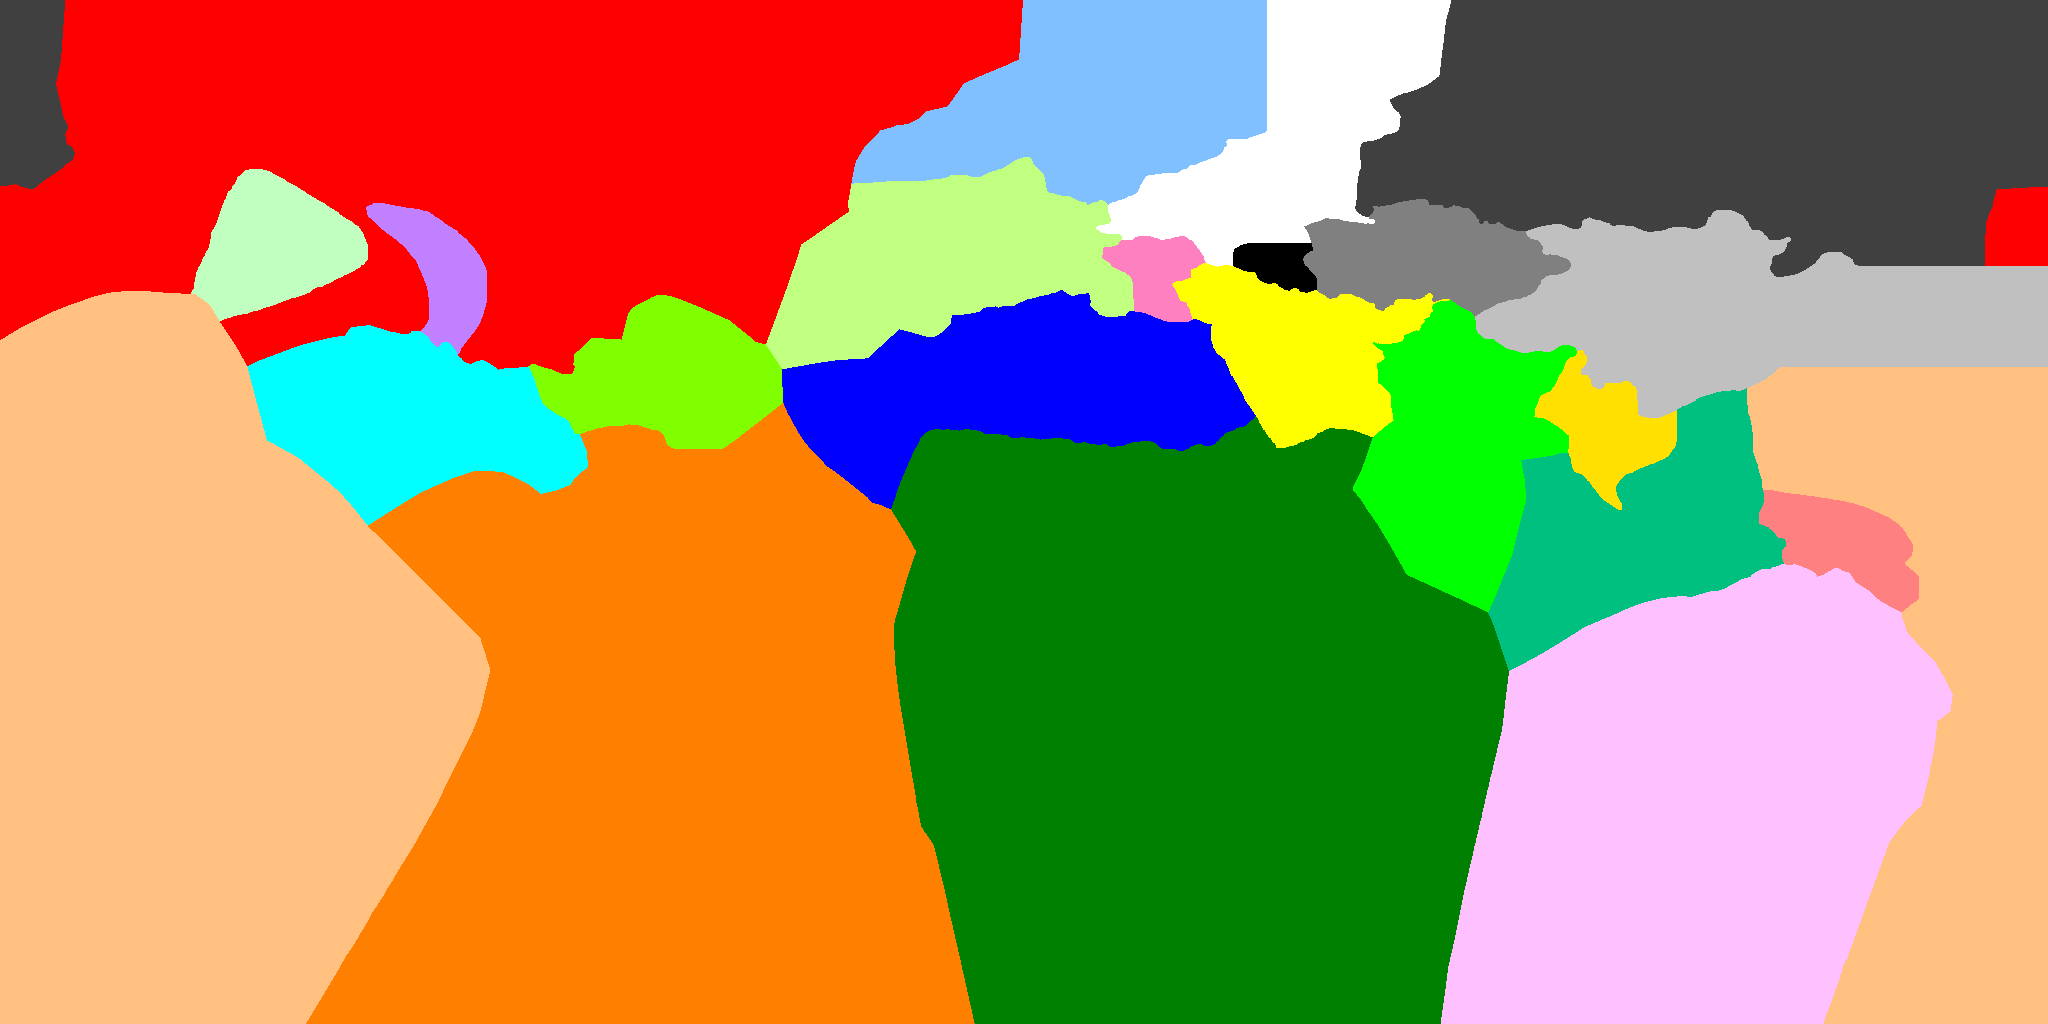
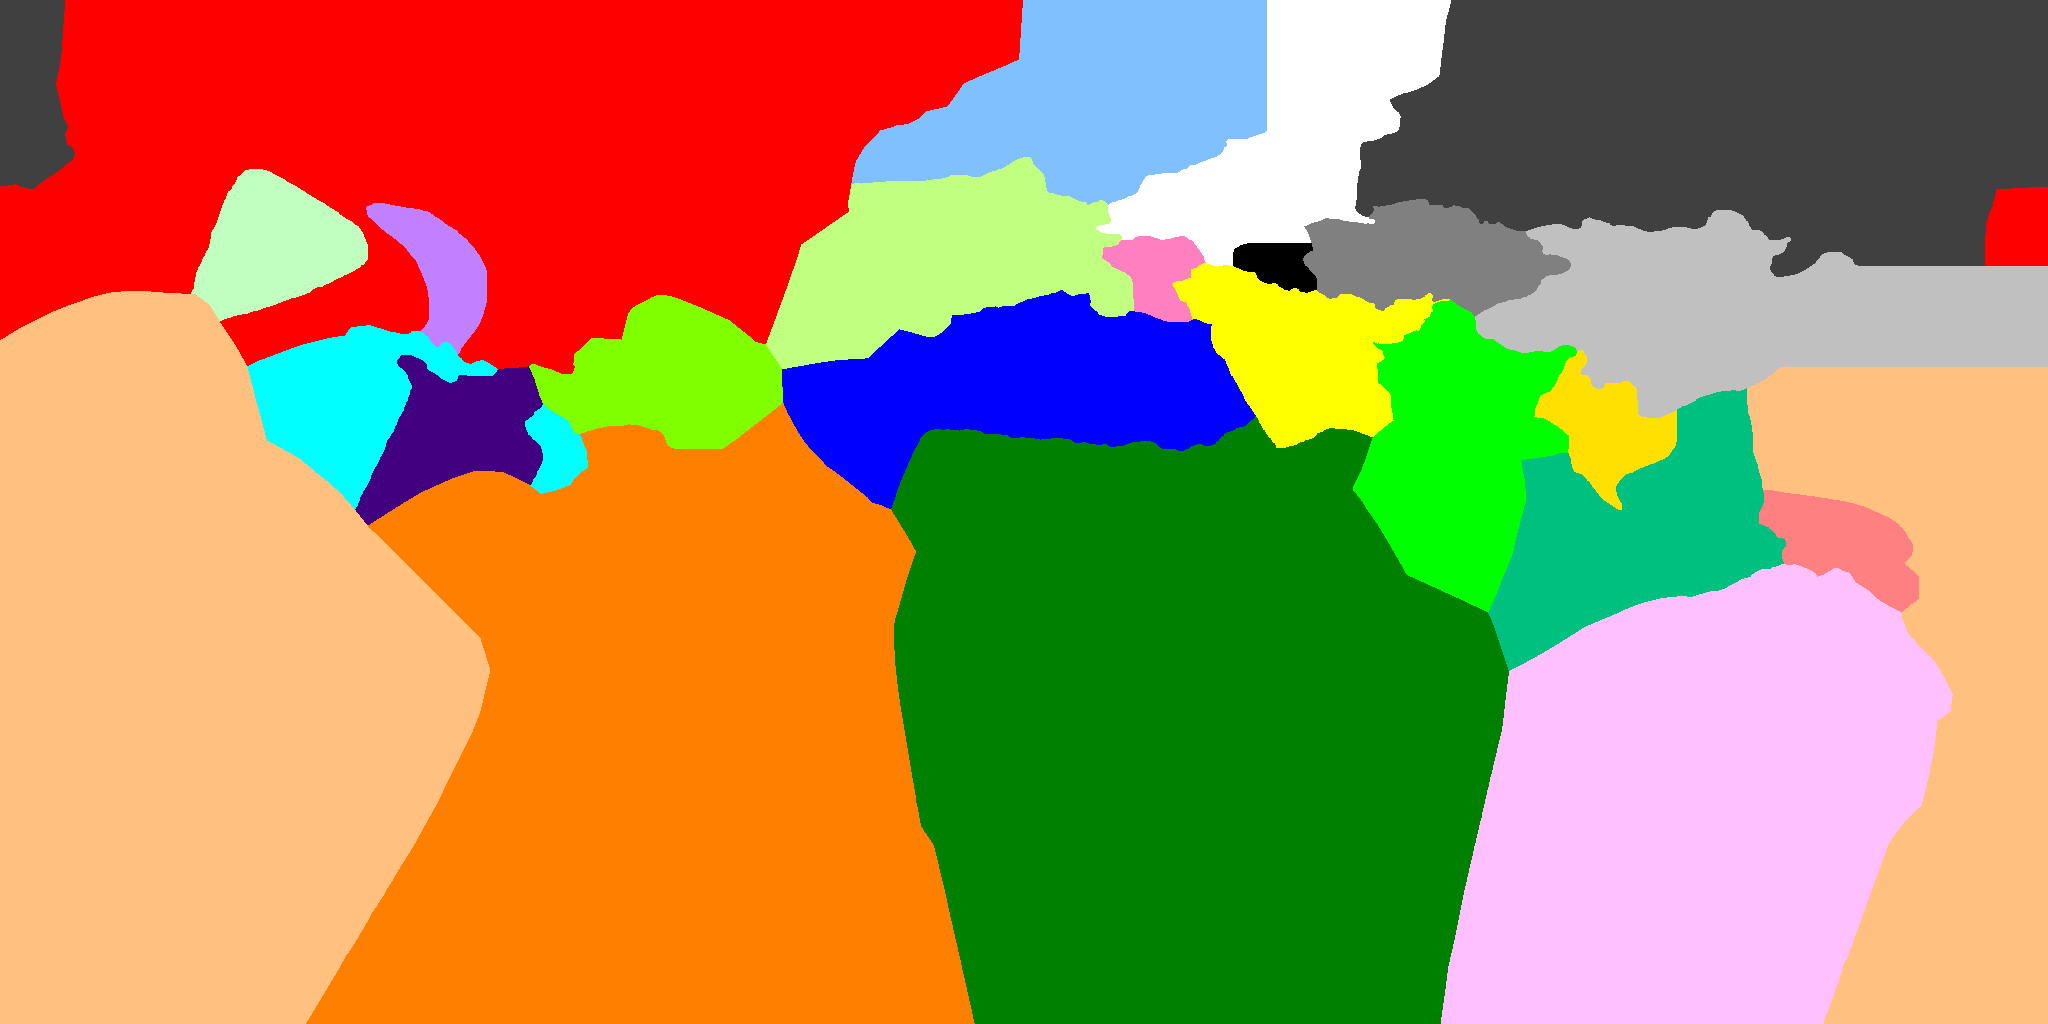
added mesoamerica

Changed region(s): [[0.1562, 0.3438, 0.2812, 0.5312]]

diff --git a/Geo.cs b/Geo.cs
@@ -19,13 +19,14 @@ namespace WalsParser {
 		INDONESIA = 0xFF00C080,
 		AMERICA_NORTH_NORTH = 0xFFFF0000,
 		PLAINS = 0xFFC080FF,
-		AMERICA_CENTRAL = 0xFF00FFFF,
+		AMERICA_CENTRAL_PERIPHERAL = 0xFF00FFFF,
 		AMERICA_SOUTH = 0xFFFF8000,
 		CASCADIA = 0xFFC0FFC0,
 		CARRIBEAN = 0xFF80FF00,
 		OCEANIA = 0xFFFFC080,
 		NEW_GUINEA = 0xFFFF8080,
 		AUSTRALIA = 0xFFFFC0FF,
+		MESOAMERICA = 0xFF400080,
 	}
 	class Region {
 		public static readonly List<Region> regions = new();
@@ -46,8 +47,11 @@ namespace WalsParser {
 			Province.AFRICA_NORTH, Province.AFRICA_SUBSAHARAN
 		});
 		static readonly Region AMERICA_NORTH = new("AMERICA_NORTH", new Province[]{
-			Province.AMERICA_NORTH_NORTH, Province.CASCADIA, Province.CARRIBEAN, Province.AMERICA_CENTRAL,
-			Province.PLAINS
+			Province.AMERICA_NORTH_NORTH, Province.CASCADIA, Province.CARRIBEAN, Province.AMERICA_CENTRAL_PERIPHERAL,
+			Province.PLAINS, Province.MESOAMERICA
+		});
+		static readonly Region AMERICA_CENTRAL = new("AMERICA_CENTRAL", new Province[]{
+			Province.AMERICA_CENTRAL_PERIPHERAL, Province.MESOAMERICA
 		});
 		// static readonly Region AMERICA_SOUTH = new("AMERICA_SOUTH", new Province[]{Province.AMERICA_SOUTH});
 		static readonly Region ASIA = new("ASIA", new Province[]{
